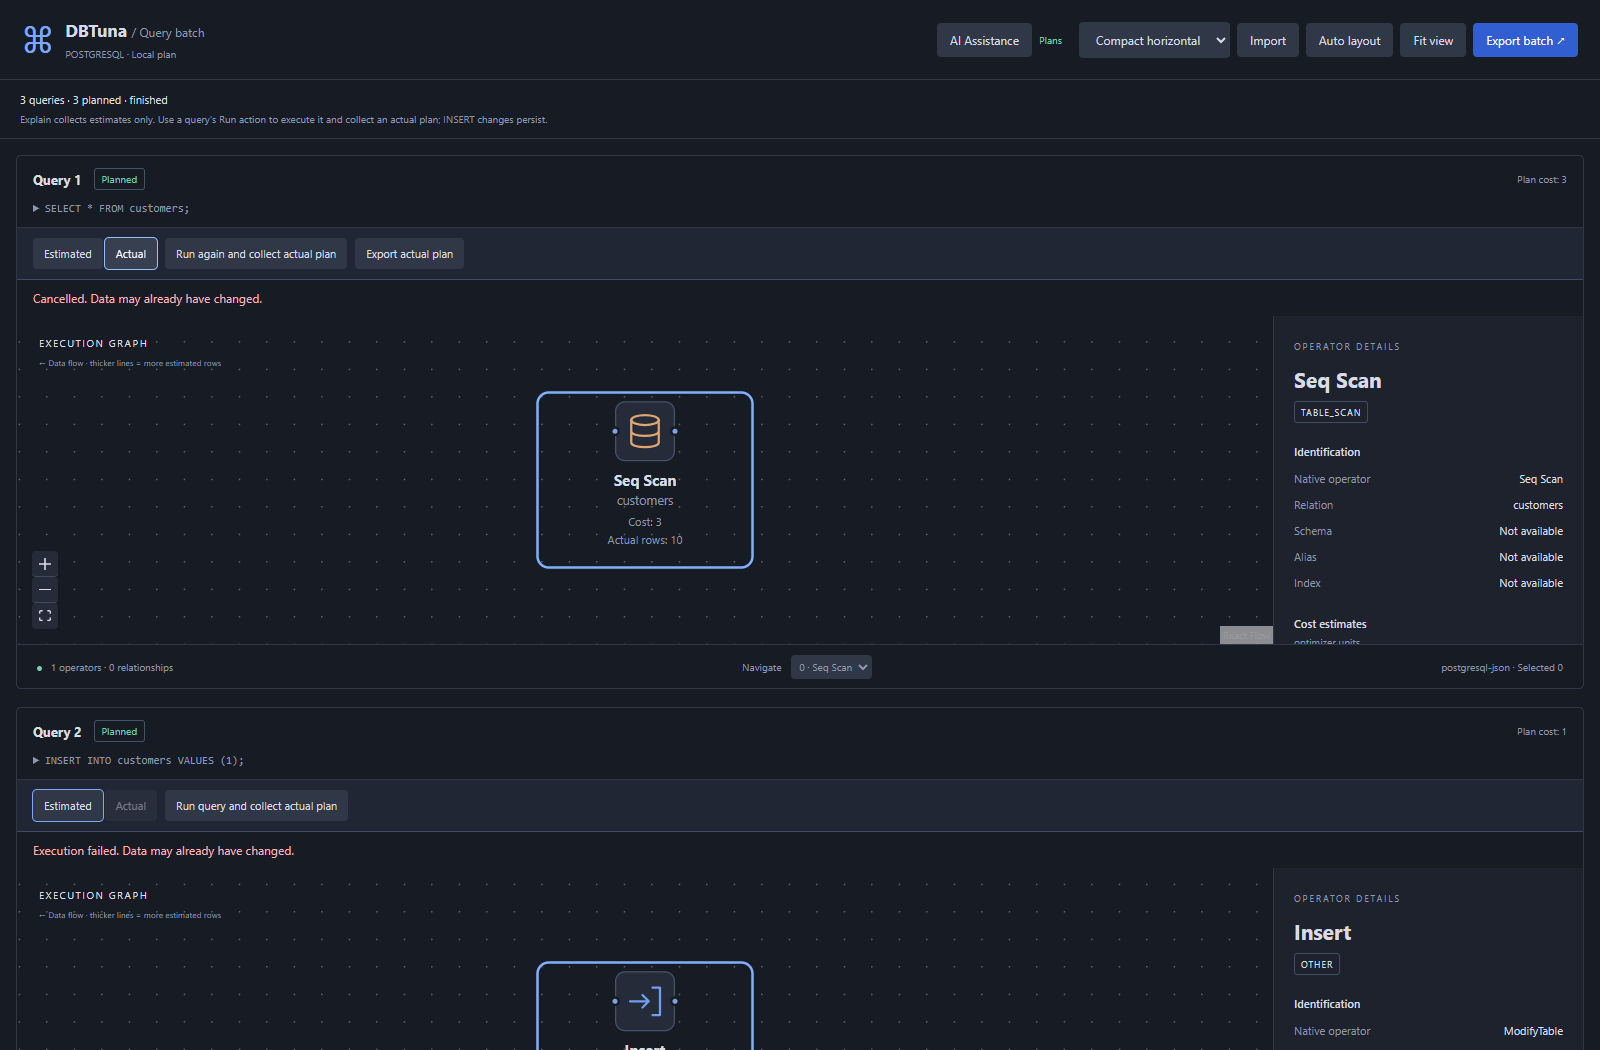
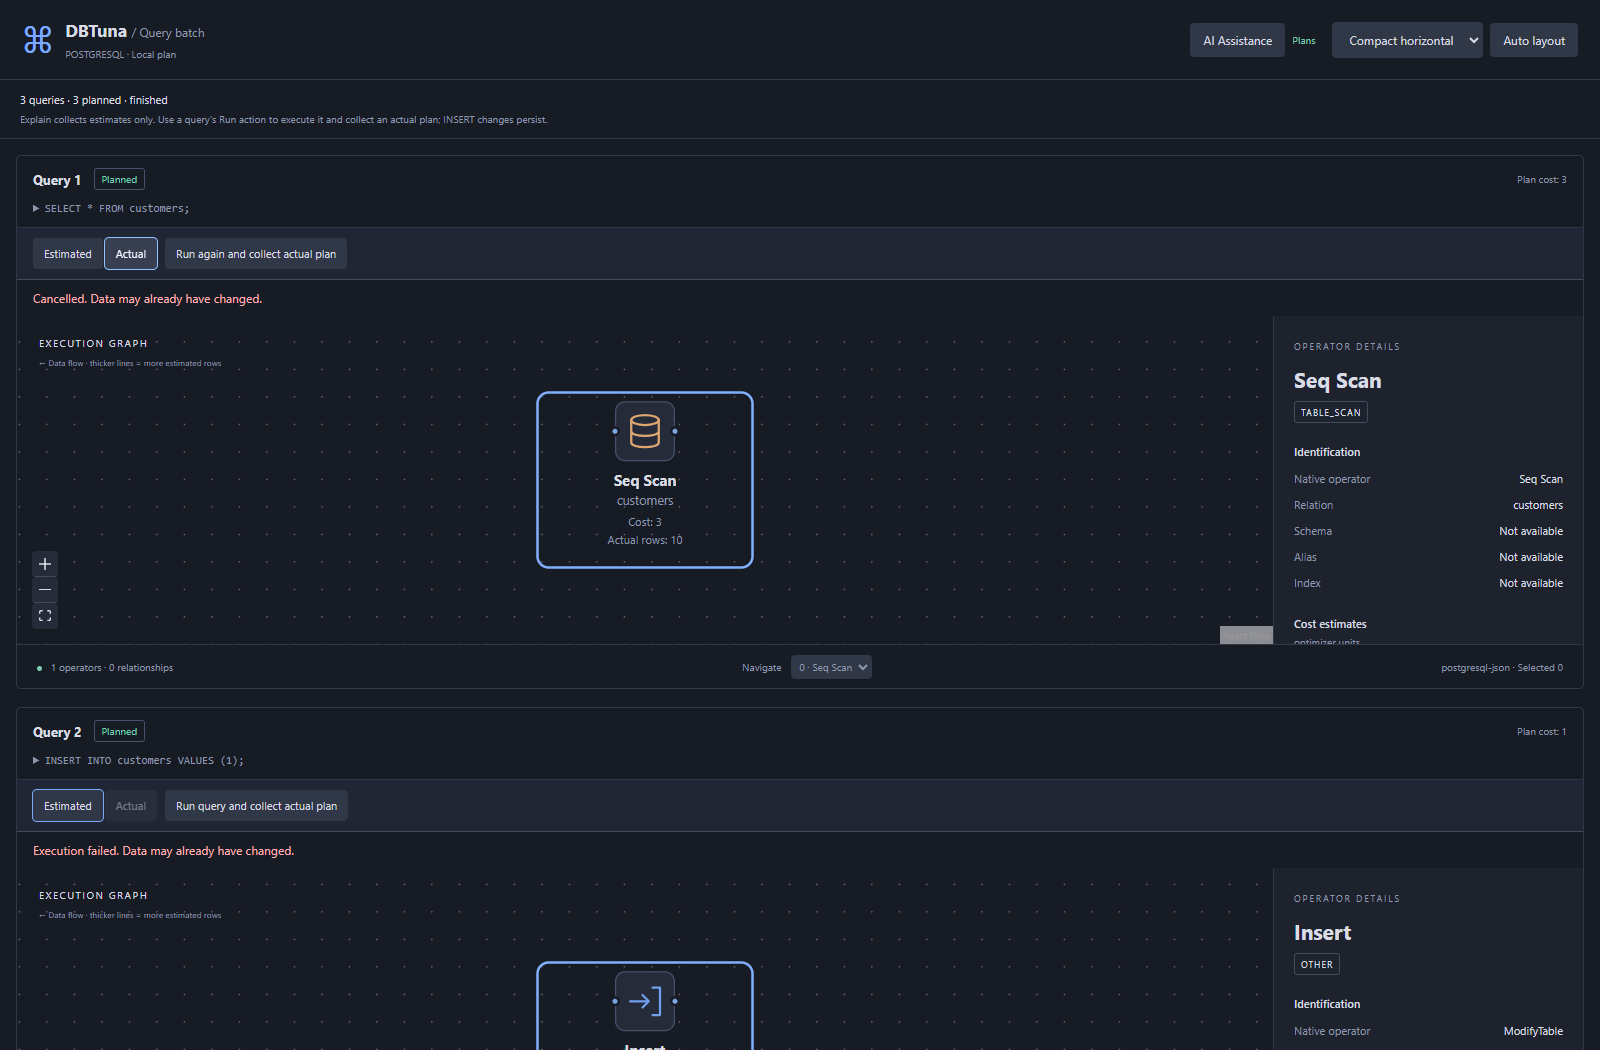
Simplify query plan toolbar for v0.6.2

Changed region(s): [[0.5625, 0.0, 1.0, 0.061]]

diff --git a/webview/src/App.tsx b/webview/src/App.tsx
@@ -725,15 +725,6 @@ function ExecutablePlan(props: React.ComponentProps<typeof PlanWorkspace>) {
             Cancel execution
           </button>
         )}
-        {actual && (
-          <button
-            onClick={() =>
-              api.postMessage({ type: "EXPORT_ACTUAL", planId: plan.id })
-            }
-          >
-            Export actual plan
-          </button>
-        )}
         <span role="status">
           {status === "confirming"
             ? "Awaiting confirmation..."
@@ -813,7 +804,7 @@ function App() {
   const [error, setError] = useState(""),
     [busy, setBusy] = useState(false),
     [revision, setRevision] = useState(0),
-    [fitRevision, setFitRevision] = useState(0);
+    [fitRevision] = useState(0);
   const { plan, batch } = content;
   const firstPlan = plan || batch?.items.find((item) => item.plan)?.plan;
   const running = !!batch?.items.some(
@@ -899,33 +890,26 @@ function App() {
             <option value="compact">Compact horizontal</option>
             <option value="cards">Cards · top down</option>
           </select>
-          <button onClick={() => api.postMessage({ type: "IMPORT_PLAN" })}>
-            Import
-          </button>
           <button
             disabled={!firstPlan}
             onClick={() => setRevision((v) => v + 1)}
           >
             Auto layout
           </button>
-          <button
-            disabled={!firstPlan}
-            onClick={() => setFitRevision((v) => v + 1)}
-          >
-            Fit view
-          </button>
           {running && (
             <button onClick={() => api.postMessage({ type: "CANCEL_BATCH" })}>
               Cancel batch
             </button>
           )}
-          <button
-            className="primary"
-            disabled={!plan && !batch}
-            onClick={() => api.postMessage({ type: "EXPORT_PLAN" })}
-          >
-            {batch && batch.items.length > 1 ? "Export batch ↗" : "Export ↗"}
-          </button>
+          {(!batch || batch.items.length <= 1) && (
+            <button
+              className="primary"
+              disabled={!plan && !batch}
+              onClick={() => api.postMessage({ type: "EXPORT_PLAN" })}
+            >
+              Export ↗
+            </button>
+          )}
         </div>
       </header>
       {error && (
@@ -1044,9 +1028,6 @@ function App() {
               onClick={() => api.postMessage({ type: "LOAD_SAMPLE" })}
             >
               Explore sample plan →
-            </button>
-            <button onClick={() => api.postMessage({ type: "IMPORT_PLAN" })}>
-              Import JSON
             </button>
           </div>
           <small>Or select SQL and run “DBTuna: Explain Query”</small>
